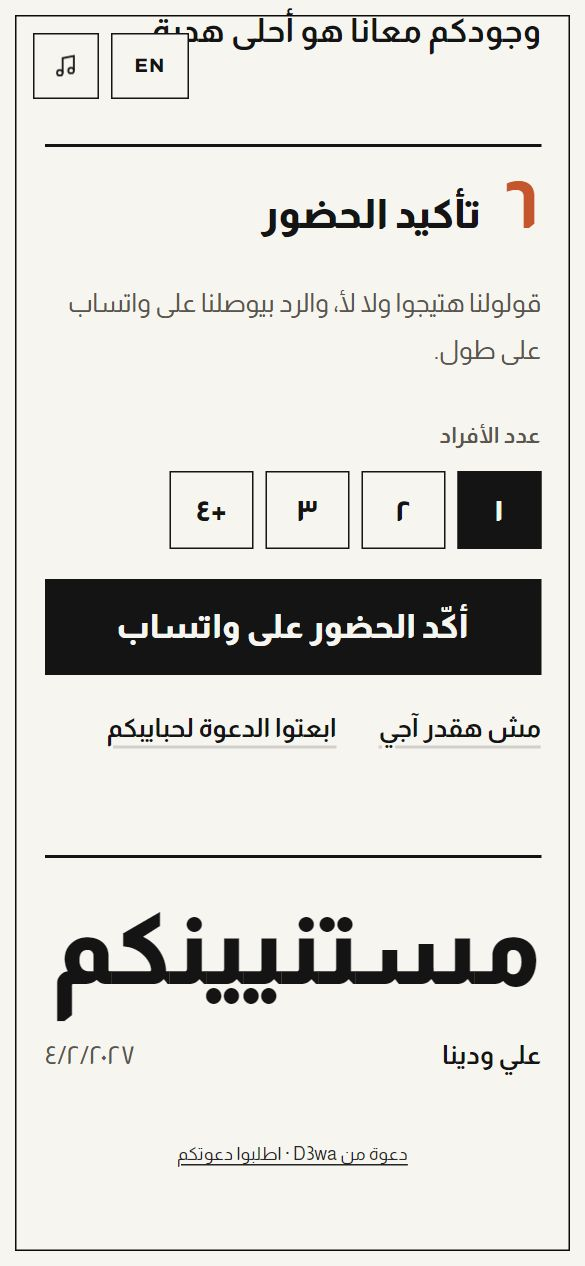
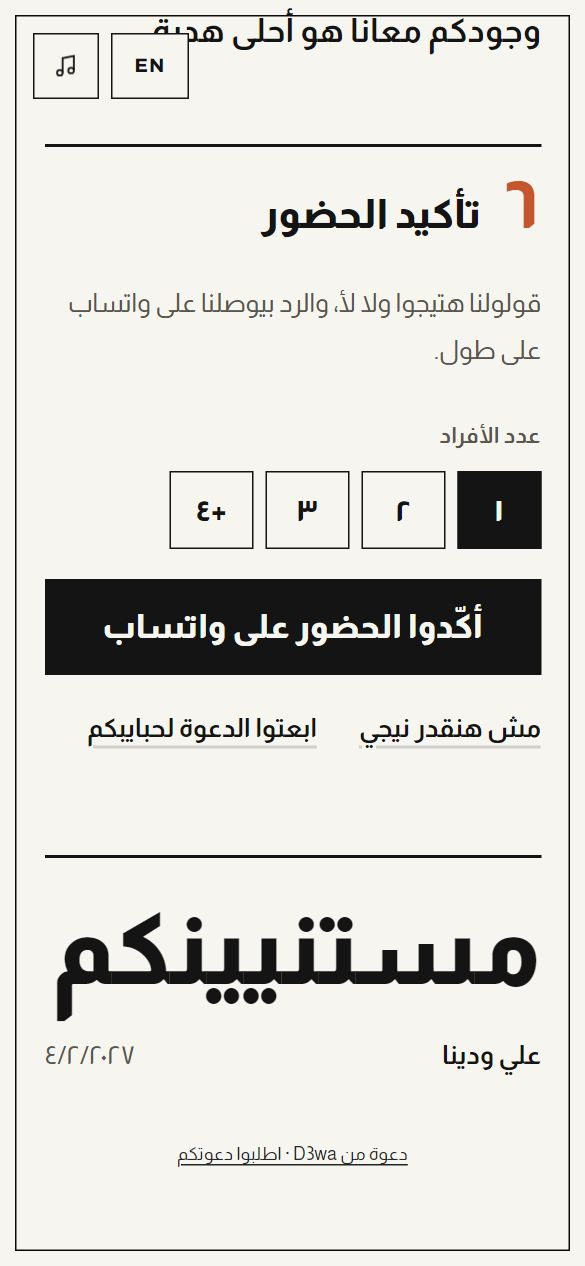
Council round 7 fixes: one RSVP voice, every gallery visible
From the seventh council review (Claude Opus, 9.4/10):
- RSVP wording mixed singular and plural next to a 1-4+ guest picker,
  and Sahara's decline button disagreed with its own WhatsApp message.
  Deco, Emerald, Grad, Modern and Sahara now speak as "we" on the
  accept/decline buttons and in the matching messages, in Arabic and
  English, and address guests in the plural.
- Henna, Lotus and Graduation product pages promise the Signature
  gallery, so their demos now carry face-free sample photos that fit
  them (catalog photos per design).
- Sahara's beach wedding and the graduation party demo in June instead
  of February; the floating button waits for the first scroll on pages
  without a hero; the demo bar's design name can wrap.

Changed region(s): [[0.1846, 0.4621, 0.8308, 0.5237], [0.1538, 0.5545, 0.5846, 0.5853], [0.6154, 0.5545, 0.8, 0.5853]]

diff --git a/demos/grad.html b/demos/grad.html
@@ -574,14 +574,14 @@ body.intro-lock{overflow:hidden}
 
       <a class="btn prime" id="acceptBtn" target="_blank" rel="noopener noreferrer" href="https://wa.me/201005509418">
         <svg viewBox="0 0 24 24" fill="currentColor" aria-hidden="true"><path d="M12.04 2C6.58 2 2.13 6.45 2.13 11.91c0 1.94.56 3.75 1.5 5.29L2 22l4.96-1.6a9.9 9.9 0 0 0 5.08 1.4h.01c5.46 0 9.91-4.45 9.91-9.91C21.96 6.45 17.5 2 12.04 2zm5.78 14.07c-.25.7-1.45 1.34-2 1.43-.5.08-1.13.11-1.83-.12-.42-.13-.96-.31-1.65-.6-2.9-1.25-4.79-4.17-4.94-4.37-.15-.2-1.18-1.57-1.18-3 0-1.42.74-2.12 1-2.41.25-.28.55-.35.74-.35h.53c.17 0 .4-.03.62.48.25.58.84 2.02.91 2.17.07.15.12.32.02.51-.09.2-.16.32-.31.49-.15.17-.32.38-.45.51-.15.15-.3.31-.13.6.18.3.8 1.32 1.71 2.13 1.18 1.05 2.17 1.38 2.5 1.53.25.12.55.1.74-.11.25-.28.55-.74.86-1.2.22-.32.49-.36.82-.24.34.12 2.15 1.01 2.51 1.2.37.18.61.27.7.43.1.16.1.9-.15 1.6z"/></svg>
-        <span class="t-ar">أكّد الحضور على واتساب</span>
+        <span class="t-ar">أكّدوا الحضور على واتساب</span>
         <span class="t-en">Confirm on WhatsApp</span>
       </a>
 
       <div class="quiet">
         <a class="qlink" id="declineBtn" target="_blank" rel="noopener noreferrer" href="https://wa.me/201005509418">
-          <span class="t-ar">مش هقدر أحضر</span>
-          <span class="t-en">I can't make it</span>
+          <span class="t-ar">مش هنقدر نحضر</span>
+          <span class="t-en">We can't make it</span>
         </a>
         <a class="qlink" id="shareBtn" target="_blank" rel="noopener noreferrer" href="https://wa.me/">
           <svg viewBox="0 0 24 24" fill="none" stroke="currentColor" stroke-width="1.9" aria-hidden="true"><path d="M4 12v7a2 2 0 0 0 2 2h12a2 2 0 0 0 2-2v-7"/><path d="M16 6l-4-4-4 4M12 2v13"/></svg>
@@ -620,7 +620,10 @@ body.intro-lock{overflow:hidden}
   try {
     var p = new URLSearchParams(window.__D3WA__ || location.search);
     if (!p.get("d")) {
-      var t = new Date(Date.now() + 90 * 864e5); t.setDate(t.getDate() + (4 - t.getDay() + 7) % 7); /* demos land on a Thursday */
+      var t = new Date(Date.now() + 90 * 864e5);
+    /* a graduation party belongs in summer: move the demo into June to August */
+    if (t.getMonth() < 5) t = new Date(t.getFullYear(), 5, 18); else if (t.getMonth() > 7) t = new Date(t.getFullYear() + 1, 5, 18);
+    t.setDate(t.getDate() + (4 - t.getDay() + 7) % 7); /* on a Thursday */
       p.set("d", t.getFullYear() + "-" + ("0"+(t.getMonth()+1)).slice(-2) + "-" + ("0"+t.getDate()).slice(-2));
       window.__D3WA__ = p.toString();
     }
@@ -897,8 +900,8 @@ body.intro-lock{overflow:hidden}
       ? "مبروك يا " + nAr + "! أكيد جايين حفلة التخرج يوم " + dateFullAr + " الساعة " + timeArS + " في " + venAr + ". عدد الحضور: " + guestAr
       : "Congratulations, " + nEn + "! Confirming we'll be at the graduation party on " + dateFullEn + " at " + timeEnS + ", " + venEn + ". Guests: " + guestEn;
     var decline = isAr
-      ? "ألف مبروك يا " + nAr + "! للأسف مش هقدر أحضر الحفلة، بس قلبي معاكم وبتمنالك كل النجاح."
-      : "Huge congratulations, " + nEn + "! Sadly I can't make it to the party, but I'm wishing you every success.";
+      ? "ألف مبروك يا " + nAr + "! للأسف مش هنقدر نحضر الحفلة، بس قلوبنا معاكم وبنتمنالك كل النجاح."
+      : "Huge congratulations, " + nEn + "! Sadly we can't make it to the party, but we're wishing you every success.";
     var share = isAr
       ? "تتشرف العائلة بدعوتكم لحفلة تخرج " + nAr + " يوم " + dateFullAr + " الساعة " + timeArS + " في " + venAr + ". الدعوة هنا: " + url
       : "You're invited to " + nEn + "'s graduation party on " + dateFullEn + " at " + timeEnS + ", " + venEn + ". The invitation: " + url;

diff --git a/templates/index.html b/templates/index.html
@@ -141,7 +141,7 @@
     <p class="mood"><span class="t-ar">حُمرة الحنة والزعفران</span><span class="t-en">Henna red and saffron</span></p>
     <p class="from"><span class="t-ar">من</span><span class="t-en">From</span> <b><span class="t-ar">٦٩٩ جنيه</span><span class="t-en">EGP 699</span></b></p>
   </div>
-  <a class="try link" href="../demos/henna.html?n_ar=%D9%85%D9%84%D9%83&amp;n_en=Malak" target="_blank" rel="noopener"><span class="t-ar">جرّب الديمو</span><span class="t-en">Try the demo</span></a>
+  <a class="try link" href="../demos/henna.html?n_ar=%D9%85%D9%84%D9%83&amp;n_en=Malak&amp;ph1=https%3A%2F%2Fimages.unsplash.com%2Fphoto-1525258946800-98cfd641d0de%3Fauto%3Dformat%26fit%3Dcrop%26w%3D900%26q%3D75&amp;ph2=https%3A%2F%2Fimages.unsplash.com%2Fphoto-1513151233558-d860c5398176%3Fauto%3Dformat%26fit%3Dcrop%26w%3D900%26q%3D75&amp;ph3=https%3A%2F%2Fimages.unsplash.com%2Fphoto-1519225421980-715cb0215aed%3Fauto%3Dformat%26fit%3Dcrop%26w%3D900%26q%3D75" target="_blank" rel="noopener"><span class="t-ar">جرّب الديمو</span><span class="t-en">Try the demo</span></a>
 </article>
 <article class="tile" data-occ="wedding">
   <a class="mount" href="../templates/deco.html" tabindex="-1" aria-hidden="true">
@@ -189,7 +189,7 @@
     <p class="mood"><span class="t-ar">باستيل وقمر ولوتس</span><span class="t-en">Pastels, a moon and a lotus</span></p>
     <p class="from"><span class="t-ar">من</span><span class="t-en">From</span> <b><span class="t-ar">٦٩٩ جنيه</span><span class="t-en">EGP 699</span></b></p>
   </div>
-  <a class="try link" href="../demos/lotus.html?n_ar=%D9%8A%D8%A7%D8%B3%D9%8A%D9%86&amp;n_en=Yassin" target="_blank" rel="noopener"><span class="t-ar">جرّب الديمو</span><span class="t-en">Try the demo</span></a>
+  <a class="try link" href="../demos/lotus.html?n_ar=%D9%8A%D8%A7%D8%B3%D9%8A%D9%86&amp;n_en=Yassin&amp;ph1=https%3A%2F%2Fimages.unsplash.com%2Fphoto-1522383225653-ed111181a951%3Fauto%3Dformat%26fit%3Dcrop%26w%3D900%26q%3D75&amp;ph2=https%3A%2F%2Fimages.unsplash.com%2Fphoto-1530103862676-de8c9debad1d%3Fauto%3Dformat%26fit%3Dcrop%26w%3D900%26q%3D75&amp;ph3=https%3A%2F%2Fimages.unsplash.com%2Fphoto-1519225421980-715cb0215aed%3Fauto%3Dformat%26fit%3Dcrop%26w%3D900%26q%3D75" target="_blank" rel="noopener"><span class="t-ar">جرّب الديمو</span><span class="t-en">Try the demo</span></a>
 </article>
 <article class="tile" data-occ="grad">
   <a class="mount" href="../templates/grad.html" tabindex="-1" aria-hidden="true">
@@ -201,7 +201,7 @@
     <p class="mood"><span class="t-ar">كحلي وبرتقالي وسنة التخرج</span><span class="t-en">Navy, orange and the class year</span></p>
     <p class="from"><span class="t-ar">من</span><span class="t-en">From</span> <b><span class="t-ar">٦٩٩ جنيه</span><span class="t-en">EGP 699</span></b></p>
   </div>
-  <a class="try link" href="../demos/grad.html?n_ar=%D8%B3%D8%A7%D8%B1%D8%A9&amp;n_en=Sara" target="_blank" rel="noopener"><span class="t-ar">جرّب الديمو</span><span class="t-en">Try the demo</span></a>
+  <a class="try link" href="../demos/grad.html?n_ar=%D8%B3%D8%A7%D8%B1%D8%A9&amp;n_en=Sara&amp;ph1=https%3A%2F%2Fimages.unsplash.com%2Fphoto-1627556704302-624286467c65%3Fauto%3Dformat%26fit%3Dcrop%26w%3D900%26q%3D75&amp;ph2=https%3A%2F%2Fimages.unsplash.com%2Fphoto-1513151233558-d860c5398176%3Fauto%3Dformat%26fit%3Dcrop%26w%3D900%26q%3D75&amp;ph3=https%3A%2F%2Fimages.unsplash.com%2Fphoto-1530103862676-de8c9debad1d%3Fauto%3Dformat%26fit%3Dcrop%26w%3D900%26q%3D75" target="_blank" rel="noopener"><span class="t-ar">جرّب الديمو</span><span class="t-en">Try the demo</span></a>
 </article>
   </div>
 </section>

diff --git a/templates/lotus.html b/templates/lotus.html
@@ -55,7 +55,7 @@
       <div class="phone"><div class="scr" id="scr">
         <img id="still" src="../assets/cards/lotus.jpg" data-en="../assets/cards/lotus-en.jpg" width="585" height="1266" fetchpriority="high" alt="سبوع اللوتس: باستيل وقمر ولوتس">
       </div></div>
-      <button class="btn btn-pom play" id="play" type="button" data-src="../demos/lotus.html?n_ar=%D9%8A%D8%A7%D8%B3%D9%8A%D9%86&n_en=Yassin"><svg viewBox="0 0 24 24" fill="none" stroke="currentColor" stroke-width="1.6" stroke-linecap="round" stroke-linejoin="round" aria-hidden="true"><path d="M2.5 12s3.5-6.5 9.5-6.5S21.5 12 21.5 12s-3.5 6.5-9.5 6.5S2.5 12 2.5 12z"/><circle cx="12" cy="12" r="2.8"/></svg><span class="t-ar">جرّبوا الدعوة هنا</span><span class="t-en">Try it here</span></button>
+      <button class="btn btn-pom play" id="play" type="button" data-src="../demos/lotus.html?n_ar=%D9%8A%D8%A7%D8%B3%D9%8A%D9%86&n_en=Yassin&ph1=https%3A%2F%2Fimages.unsplash.com%2Fphoto-1522383225653-ed111181a951%3Fauto%3Dformat%26fit%3Dcrop%26w%3D900%26q%3D75&ph2=https%3A%2F%2Fimages.unsplash.com%2Fphoto-1530103862676-de8c9debad1d%3Fauto%3Dformat%26fit%3Dcrop%26w%3D900%26q%3D75&ph3=https%3A%2F%2Fimages.unsplash.com%2Fphoto-1519225421980-715cb0215aed%3Fauto%3Dformat%26fit%3Dcrop%26w%3D900%26q%3D75"><svg viewBox="0 0 24 24" fill="none" stroke="currentColor" stroke-width="1.6" stroke-linecap="round" stroke-linejoin="round" aria-hidden="true"><path d="M2.5 12s3.5-6.5 9.5-6.5S21.5 12 21.5 12s-3.5 6.5-9.5 6.5S2.5 12 2.5 12z"/><circle cx="12" cy="12" r="2.8"/></svg><span class="t-ar">جرّبوا الدعوة هنا</span><span class="t-en">Try it here</span></button>
     </div>
     <div class="thumbs" id="thumbs">
       <button type="button" aria-pressed="true" data-src="../assets/cards/lotus.jpg" data-en="../assets/cards/lotus-en.jpg"><img src="../assets/cards/lotus.jpg" data-en="../assets/cards/lotus-en.jpg" width="66" height="117" alt=""><span class="sr-only"><span class="t-ar">الغلاف</span><span class="t-en">Cover</span></span></button>
@@ -94,7 +94,7 @@
     </fieldset>
     <div class="buy">
       <a class="btn btn-pom" id="buy" href="../order.html?t=lotus&amp;p=signature"><span class="t-ar">خصّصوا التصميم ده</span><span class="t-en">Personalise this design</span></a>
-      <a class="btn btn-line" href="../demos/lotus.html?n_ar=%D9%8A%D8%A7%D8%B3%D9%8A%D9%86&amp;n_en=Yassin" target="_blank" rel="noopener"><span class="t-ar">افتحوا الديمو كامل</span><span class="t-en">Open the full demo</span></a>
+      <a class="btn btn-line" href="../demos/lotus.html?n_ar=%D9%8A%D8%A7%D8%B3%D9%8A%D9%86&amp;n_en=Yassin&amp;ph1=https%3A%2F%2Fimages.unsplash.com%2Fphoto-1522383225653-ed111181a951%3Fauto%3Dformat%26fit%3Dcrop%26w%3D900%26q%3D75&amp;ph2=https%3A%2F%2Fimages.unsplash.com%2Fphoto-1530103862676-de8c9debad1d%3Fauto%3Dformat%26fit%3Dcrop%26w%3D900%26q%3D75&amp;ph3=https%3A%2F%2Fimages.unsplash.com%2Fphoto-1519225421980-715cb0215aed%3Fauto%3Dformat%26fit%3Dcrop%26w%3D900%26q%3D75" target="_blank" rel="noopener"><span class="t-ar">افتحوا الديمو كامل</span><span class="t-en">Open the full demo</span></a>
     </div>
     <p style="margin-top:14px;font-size:15px"><a class="link" href="https://wa.me/201005509418?text=%D8%A3%D9%87%D9%84%D8%A7%D9%8B%D8%8C%20%D8%B9%D9%86%D8%AF%D9%8A%20%D8%B3%D8%A4%D8%A7%D9%84%20%D8%B9%D9%86%20%D8%AA%D8%B5%D9%85%D9%8A%D9%85%20%D8%B3%D8%A8%D9%88%D8%B9%20%D8%A7%D9%84%D9%84%D9%88%D8%AA%D8%B3%20(D3-007)." target="_blank" rel="noopener"><span class="t-ar">عندكم سؤال؟ اسألونا على واتساب</span><span class="t-en">A question? Ask us on WhatsApp</span></a></p>
     <ul class="promise">

diff --git a/templates/henna.html b/templates/henna.html
@@ -55,7 +55,7 @@
       <div class="phone"><div class="scr" id="scr">
         <img id="still" src="../assets/cards/henna.jpg" data-en="../assets/cards/henna-en.jpg" width="585" height="1266" fetchpriority="high" alt="ليلة حنة: حُمرة الحنة والزعفران">
       </div></div>
-      <button class="btn btn-pom play" id="play" type="button" data-src="../demos/henna.html?n_ar=%D9%85%D9%84%D9%83&n_en=Malak"><svg viewBox="0 0 24 24" fill="none" stroke="currentColor" stroke-width="1.6" stroke-linecap="round" stroke-linejoin="round" aria-hidden="true"><path d="M2.5 12s3.5-6.5 9.5-6.5S21.5 12 21.5 12s-3.5 6.5-9.5 6.5S2.5 12 2.5 12z"/><circle cx="12" cy="12" r="2.8"/></svg><span class="t-ar">جرّبوا الدعوة هنا</span><span class="t-en">Try it here</span></button>
+      <button class="btn btn-pom play" id="play" type="button" data-src="../demos/henna.html?n_ar=%D9%85%D9%84%D9%83&n_en=Malak&ph1=https%3A%2F%2Fimages.unsplash.com%2Fphoto-1525258946800-98cfd641d0de%3Fauto%3Dformat%26fit%3Dcrop%26w%3D900%26q%3D75&ph2=https%3A%2F%2Fimages.unsplash.com%2Fphoto-1513151233558-d860c5398176%3Fauto%3Dformat%26fit%3Dcrop%26w%3D900%26q%3D75&ph3=https%3A%2F%2Fimages.unsplash.com%2Fphoto-1519225421980-715cb0215aed%3Fauto%3Dformat%26fit%3Dcrop%26w%3D900%26q%3D75"><svg viewBox="0 0 24 24" fill="none" stroke="currentColor" stroke-width="1.6" stroke-linecap="round" stroke-linejoin="round" aria-hidden="true"><path d="M2.5 12s3.5-6.5 9.5-6.5S21.5 12 21.5 12s-3.5 6.5-9.5 6.5S2.5 12 2.5 12z"/><circle cx="12" cy="12" r="2.8"/></svg><span class="t-ar">جرّبوا الدعوة هنا</span><span class="t-en">Try it here</span></button>
     </div>
     <div class="thumbs" id="thumbs">
       <button type="button" aria-pressed="true" data-src="../assets/cards/henna.jpg" data-en="../assets/cards/henna-en.jpg"><img src="../assets/cards/henna.jpg" data-en="../assets/cards/henna-en.jpg" width="66" height="117" alt=""><span class="sr-only"><span class="t-ar">الغلاف</span><span class="t-en">Cover</span></span></button>
@@ -94,7 +94,7 @@
     </fieldset>
     <div class="buy">
       <a class="btn btn-pom" id="buy" href="../order.html?t=henna&amp;p=signature"><span class="t-ar">خصّصوا التصميم ده</span><span class="t-en">Personalise this design</span></a>
-      <a class="btn btn-line" href="../demos/henna.html?n_ar=%D9%85%D9%84%D9%83&amp;n_en=Malak" target="_blank" rel="noopener"><span class="t-ar">افتحوا الديمو كامل</span><span class="t-en">Open the full demo</span></a>
+      <a class="btn btn-line" href="../demos/henna.html?n_ar=%D9%85%D9%84%D9%83&amp;n_en=Malak&amp;ph1=https%3A%2F%2Fimages.unsplash.com%2Fphoto-1525258946800-98cfd641d0de%3Fauto%3Dformat%26fit%3Dcrop%26w%3D900%26q%3D75&amp;ph2=https%3A%2F%2Fimages.unsplash.com%2Fphoto-1513151233558-d860c5398176%3Fauto%3Dformat%26fit%3Dcrop%26w%3D900%26q%3D75&amp;ph3=https%3A%2F%2Fimages.unsplash.com%2Fphoto-1519225421980-715cb0215aed%3Fauto%3Dformat%26fit%3Dcrop%26w%3D900%26q%3D75" target="_blank" rel="noopener"><span class="t-ar">افتحوا الديمو كامل</span><span class="t-en">Open the full demo</span></a>
     </div>
     <p style="margin-top:14px;font-size:15px"><a class="link" href="https://wa.me/201005509418?text=%D8%A3%D9%87%D9%84%D8%A7%D9%8B%D8%8C%20%D8%B9%D9%86%D8%AF%D9%8A%20%D8%B3%D8%A4%D8%A7%D9%84%20%D8%B9%D9%86%20%D8%AA%D8%B5%D9%85%D9%8A%D9%85%20%D9%84%D9%8A%D9%84%D8%A9%20%D8%AD%D9%86%D8%A9%20(D3-008)." target="_blank" rel="noopener"><span class="t-ar">عندكم سؤال؟ اسألونا على واتساب</span><span class="t-en">A question? Ask us on WhatsApp</span></a></p>
     <ul class="promise">

diff --git a/templates/grad.html b/templates/grad.html
@@ -55,7 +55,7 @@
       <div class="phone"><div class="scr" id="scr">
         <img id="still" src="../assets/cards/grad.jpg" data-en="../assets/cards/grad-en.jpg" width="585" height="1266" fetchpriority="high" alt="تخرج: كحلي وبرتقالي وسنة التخرج">
       </div></div>
-      <button class="btn btn-pom play" id="play" type="button" data-src="../demos/grad.html?n_ar=%D8%B3%D8%A7%D8%B1%D8%A9&n_en=Sara"><svg viewBox="0 0 24 24" fill="none" stroke="currentColor" stroke-width="1.6" stroke-linecap="round" stroke-linejoin="round" aria-hidden="true"><path d="M2.5 12s3.5-6.5 9.5-6.5S21.5 12 21.5 12s-3.5 6.5-9.5 6.5S2.5 12 2.5 12z"/><circle cx="12" cy="12" r="2.8"/></svg><span class="t-ar">جرّبوا الدعوة هنا</span><span class="t-en">Try it here</span></button>
+      <button class="btn btn-pom play" id="play" type="button" data-src="../demos/grad.html?n_ar=%D8%B3%D8%A7%D8%B1%D8%A9&n_en=Sara&ph1=https%3A%2F%2Fimages.unsplash.com%2Fphoto-1627556704302-624286467c65%3Fauto%3Dformat%26fit%3Dcrop%26w%3D900%26q%3D75&ph2=https%3A%2F%2Fimages.unsplash.com%2Fphoto-1513151233558-d860c5398176%3Fauto%3Dformat%26fit%3Dcrop%26w%3D900%26q%3D75&ph3=https%3A%2F%2Fimages.unsplash.com%2Fphoto-1530103862676-de8c9debad1d%3Fauto%3Dformat%26fit%3Dcrop%26w%3D900%26q%3D75"><svg viewBox="0 0 24 24" fill="none" stroke="currentColor" stroke-width="1.6" stroke-linecap="round" stroke-linejoin="round" aria-hidden="true"><path d="M2.5 12s3.5-6.5 9.5-6.5S21.5 12 21.5 12s-3.5 6.5-9.5 6.5S2.5 12 2.5 12z"/><circle cx="12" cy="12" r="2.8"/></svg><span class="t-ar">جرّبوا الدعوة هنا</span><span class="t-en">Try it here</span></button>
     </div>
     <div class="thumbs" id="thumbs">
       <button type="button" aria-pressed="true" data-src="../assets/cards/grad.jpg" data-en="../assets/cards/grad-en.jpg"><img src="../assets/cards/grad.jpg" data-en="../assets/cards/grad-en.jpg" width="66" height="117" alt=""><span class="sr-only"><span class="t-ar">الغلاف</span><span class="t-en">Cover</span></span></button>
@@ -94,7 +94,7 @@
     </fieldset>
     <div class="buy">
       <a class="btn btn-pom" id="buy" href="../order.html?t=grad&amp;p=signature"><span class="t-ar">خصّصوا التصميم ده</span><span class="t-en">Personalise this design</span></a>
-      <a class="btn btn-line" href="../demos/grad.html?n_ar=%D8%B3%D8%A7%D8%B1%D8%A9&amp;n_en=Sara" target="_blank" rel="noopener"><span class="t-ar">افتحوا الديمو كامل</span><span class="t-en">Open the full demo</span></a>
+      <a class="btn btn-line" href="../demos/grad.html?n_ar=%D8%B3%D8%A7%D8%B1%D8%A9&amp;n_en=Sara&amp;ph1=https%3A%2F%2Fimages.unsplash.com%2Fphoto-1627556704302-624286467c65%3Fauto%3Dformat%26fit%3Dcrop%26w%3D900%26q%3D75&amp;ph2=https%3A%2F%2Fimages.unsplash.com%2Fphoto-1513151233558-d860c5398176%3Fauto%3Dformat%26fit%3Dcrop%26w%3D900%26q%3D75&amp;ph3=https%3A%2F%2Fimages.unsplash.com%2Fphoto-1530103862676-de8c9debad1d%3Fauto%3Dformat%26fit%3Dcrop%26w%3D900%26q%3D75" target="_blank" rel="noopener"><span class="t-ar">افتحوا الديمو كامل</span><span class="t-en">Open the full demo</span></a>
     </div>
     <p style="margin-top:14px;font-size:15px"><a class="link" href="https://wa.me/201005509418?text=%D8%A3%D9%87%D9%84%D8%A7%D9%8B%D8%8C%20%D8%B9%D9%86%D8%AF%D9%8A%20%D8%B3%D8%A4%D8%A7%D9%84%20%D8%B9%D9%86%20%D8%AA%D8%B5%D9%85%D9%8A%D9%85%20%D8%AA%D8%AE%D8%B1%D8%AC%20(D3-012)." target="_blank" rel="noopener"><span class="t-ar">عندكم سؤال؟ اسألونا على واتساب</span><span class="t-en">A question? Ask us on WhatsApp</span></a></p>
     <ul class="promise">

diff --git a/demos/deco.html b/demos/deco.html
@@ -889,12 +889,12 @@ html:not(.en) .chip{font-family:var(--kufi);font-weight:500;font-size:15px}
       <div class="rsvp-row">
         <a class="btn solid" id="rsvpYes" target="_blank" rel="noopener noreferrer" href="#">
           <svg viewBox="0 0 24 24" fill="none" stroke="currentColor" stroke-width="1.8" aria-hidden="true"><path d="M20 6 9 17l-5-5"/></svg>
-          <span class="t-ar">هحضر بإذن الله</span>
+          <span class="t-ar">هنحضر بإذن الله</span>
           <span class="t-en">Accept</span>
         </a>
         <a class="btn" id="rsvpNo" target="_blank" rel="noopener noreferrer" href="#">
           <svg viewBox="0 0 24 24" fill="none" stroke="currentColor" stroke-width="1.8" aria-hidden="true"><path d="M18 6 6 18M6 6l12 12"/></svg>
-          <span class="t-ar">مش هقدر أحضر</span>
+          <span class="t-ar">مش هنقدر نحضر</span>
           <span class="t-en">Decline</span>
         </a>
       </div>
@@ -1211,15 +1211,15 @@ html:not(.en) .chip{font-family:var(--kufi);font-weight:500;font-size:15px}
     var url = "https://khalidsharafel-din.github.io/d3wa/demos/deco.html";
     if (location.protocol !== "file:") url = location.href.split("#")[0];
     var accept = isEn
-      ? "Hello! I'm delighted to confirm my attendance at the wedding of " + namesEn + " on " + dateFullEn + " at " + timeEn + ", " + venueMsgEn + ". Number of guests: " + GUEST_EN[guestCount] + "."
-      : "مرحباً! يسعدني أأكد حضوري حفل زفاف " + namesAr + " يوم " + dateFullAr + " الساعة " + timeAr + " في " + venueMsgAr + ". عدد الحضور: " + GUEST_AR[guestCount] + ".";
+      ? "Hello! We're delighted to confirm our attendance at the wedding of " + namesEn + " on " + dateFullEn + " at " + timeEn + ", " + venueMsgEn + ". Number of guests: " + GUEST_EN[guestCount] + "."
+      : "مرحباً! يسعدنا نأكد حضورنا حفل زفاف " + namesAr + " يوم " + dateFullAr + " الساعة " + timeAr + " في " + venueMsgAr + ". عدد الحضور: " + GUEST_AR[guestCount] + ".";
     var share = isEn
       ? "You're invited to the wedding of " + namesEn + " on " + dateFullEn + " at " + timeEn + ", " + venueMsgEn + ". Open the invitation: " + url
       : "دعوة لحضور حفل زفاف " + namesAr + " يوم " + dateFullAr + " الساعة " + timeAr + " في " + venueMsgAr + ". افتحوا الدعوة من هنا: " + url;
     if (shareBtn) shareBtn.href = "https://wa.me/?text=" + encodeURIComponent(share);
     var decline = isEn
-      ? "Hello! Sadly I won't be able to make it to the wedding of " + namesEn + " on " + dateFullEn + ". Wishing you both a lifetime of happiness."
-      : "مرحباً! للأسف مش هقدر أحضر حفل زفاف " + namesAr + " يوم " + dateFullAr + "، ألف مبروك ومتمنيلكم حياة سعيدة.";
+      ? "Hello! Sadly we won't be able to make it to the wedding of " + namesEn + " on " + dateFullEn + ". Wishing you both a lifetime of happiness."
+      : "مرحباً! للأسف مش هنقدر نحضر حفل زفاف " + namesAr + " يوم " + dateFullAr + "، ألف مبروك وبنتمنالكم حياة سعيدة.";
     if (yesBtn) yesBtn.href = "https://wa.me/" + waNum + "?text=" + encodeURIComponent(accept);
     if (noBtn)  noBtn.href  = "https://wa.me/" + waNum + "?text=" + encodeURIComponent(decline);
   }

diff --git a/demos/modern.html b/demos/modern.html
@@ -558,9 +558,9 @@ html.en .mono .t-ar,html:not(.en) .mono .t-en{display:none}
             <button type="button" class="chip" data-n="4+" aria-pressed="false"><span class="t-ar">+٤</span><span class="t-en">4+</span></button>
           </div>
         </div>
-        <a class="rsvp-yes" id="rsvpYes" target="_blank" rel="noopener noreferrer" href="https://wa.me/201005509418"><span class="t-ar">أكّد الحضور على واتساب</span><span class="t-en">Confirm on WhatsApp</span></a>
+        <a class="rsvp-yes" id="rsvpYes" target="_blank" rel="noopener noreferrer" href="https://wa.me/201005509418"><span class="t-ar">أكّدوا الحضور على واتساب</span><span class="t-en">Confirm on WhatsApp</span></a>
         <div class="rsvp-more">
-          <a class="tlink" id="rsvpNo" target="_blank" rel="noopener noreferrer" href="https://wa.me/201005509418"><span class="t-ar">مش هقدر آجي</span><span class="t-en">I can&rsquo;t make it</span></a>
+          <a class="tlink" id="rsvpNo" target="_blank" rel="noopener noreferrer" href="https://wa.me/201005509418"><span class="t-ar">مش هنقدر نيجي</span><span class="t-en">I can&rsquo;t make it</span></a>
           <a class="tlink" id="shareBtn" target="_blank" rel="noopener noreferrer" href="https://wa.me/"><span class="t-ar">ابعتوا الدعوة لحبايبكم</span><span class="t-en">Share the invitation</span></a>
         </div>
       </div>
@@ -897,11 +897,11 @@ html.en .mono .t-ar,html:not(.en) .mono .t-en{display:none}
   function updateLinks () {
     var url = location.href.split("#")[0];
     var yes = isEn
-      ? "Hi! Confirming I'll attend " + namesEn + "'s engagement on " + dateFullEn + " at " + timeEn + ", " + venueMsgEn + ". Guests: " + guestN
+      ? "Hi! Confirming we'll attend " + namesEn + "'s engagement on " + dateFullEn + " at " + timeEn + ", " + venueMsgEn + ". Guests: " + guestN
       : "أهلاً! تأكيد حضور خطوبة " + namesAr + "، " + dateFullAr + " الساعة " + timeAr + " في " + venueMsgAr + ". عدد الأفراد: " + arDigits(guestN);
     var no = isEn
-      ? "Hi! Sadly I can't make it to " + namesEn + "'s engagement. Congratulations and warmest wishes to you both."
-      : "أهلاً! للأسف مش هقدر أحضر خطوبة " + namesAr + ". ألف مبروك، وربنا يتمم على خير.";
+      ? "Hi! Sadly we can't make it to " + namesEn + "'s engagement. Congratulations and warmest wishes to you both."
+      : "أهلاً! للأسف مش هنقدر نحضر خطوبة " + namesAr + ". ألف مبروك، وربنا يتمم على خير.";
     var share = isEn
       ? "You're invited to " + namesEn + "'s engagement, " + dateFullEn + " at " + timeEn + ", " + venueMsgEn + ". Invitation: " + url
       : "إنتم معزومين على خطوبة " + namesAr + "، " + dateFullAr + " الساعة " + timeAr + " في " + venueMsgAr + ". الدعوة هنا: " + url;

diff --git a/index.html b/index.html
@@ -144,7 +144,7 @@
     <p class="mood"><span class="t-ar">حُمرة الحنة والزعفران</span><span class="t-en">Henna red and saffron</span></p>
     <p class="from"><span class="t-ar">من</span><span class="t-en">From</span> <b><span class="t-ar">٦٩٩ جنيه</span><span class="t-en">EGP 699</span></b></p>
   </div>
-  <a class="try link" href="demos/henna.html?n_ar=%D9%85%D9%84%D9%83&amp;n_en=Malak" target="_blank" rel="noopener"><span class="t-ar">جرّب الديمو</span><span class="t-en">Try the demo</span></a>
+  <a class="try link" href="demos/henna.html?n_ar=%D9%85%D9%84%D9%83&amp;n_en=Malak&amp;ph1=https%3A%2F%2Fimages.unsplash.com%2Fphoto-1525258946800-98cfd641d0de%3Fauto%3Dformat%26fit%3Dcrop%26w%3D900%26q%3D75&amp;ph2=https%3A%2F%2Fimages.unsplash.com%2Fphoto-1513151233558-d860c5398176%3Fauto%3Dformat%26fit%3Dcrop%26w%3D900%26q%3D75&amp;ph3=https%3A%2F%2Fimages.unsplash.com%2Fphoto-1519225421980-715cb0215aed%3Fauto%3Dformat%26fit%3Dcrop%26w%3D900%26q%3D75" target="_blank" rel="noopener"><span class="t-ar">جرّب الديمو</span><span class="t-en">Try the demo</span></a>
 </article>
 <article class="tile" data-occ="wedding">
   <a class="mount" href="templates/deco.html" tabindex="-1" aria-hidden="true">
@@ -168,7 +168,7 @@
     <p class="mood"><span class="t-ar">باستيل وقمر ولوتس</span><span class="t-en">Pastels, a moon and a lotus</span></p>
     <p class="from"><span class="t-ar">من</span><span class="t-en">From</span> <b><span class="t-ar">٦٩٩ جنيه</span><span class="t-en">EGP 699</span></b></p>
   </div>
-  <a class="try link" href="demos/lotus.html?n_ar=%D9%8A%D8%A7%D8%B3%D9%8A%D9%86&amp;n_en=Yassin" target="_blank" rel="noopener"><span class="t-ar">جرّب الديمو</span><span class="t-en">Try the demo</span></a>
+  <a class="try link" href="demos/lotus.html?n_ar=%D9%8A%D8%A7%D8%B3%D9%8A%D9%86&amp;n_en=Yassin&amp;ph1=https%3A%2F%2Fimages.unsplash.com%2Fphoto-1522383225653-ed111181a951%3Fauto%3Dformat%26fit%3Dcrop%26w%3D900%26q%3D75&amp;ph2=https%3A%2F%2Fimages.unsplash.com%2Fphoto-1530103862676-de8c9debad1d%3Fauto%3Dformat%26fit%3Dcrop%26w%3D900%26q%3D75&amp;ph3=https%3A%2F%2Fimages.unsplash.com%2Fphoto-1519225421980-715cb0215aed%3Fauto%3Dformat%26fit%3Dcrop%26w%3D900%26q%3D75" target="_blank" rel="noopener"><span class="t-ar">جرّب الديمو</span><span class="t-en">Try the demo</span></a>
 </article>
 <article class="tile" data-occ="wedding">
   <a class="mount" href="templates/sahara.html" tabindex="-1" aria-hidden="true">

diff --git a/demos/sahara.html b/demos/sahara.html
@@ -976,7 +976,10 @@ html.en .intro-hint{font-family:var(--en-serif);font-weight:600;font-size:18px;l
   try {
     var p = new URLSearchParams(window.__D3WA__ || location.search);
     if (!p.get("d")) {
-      var t = new Date(Date.now() + 90 * 864e5); t.setDate(t.getDate() + (4 - t.getDay() + 7) % 7); /* demos land on a Thursday */
+      var t = new Date(Date.now() + 90 * 864e5);
+    /* a Sahel wedding belongs in summer: move the demo into June to September */
+    if (t.getMonth() < 5) t = new Date(t.getFullYear(), 5, 18); else if (t.getMonth() > 8) t = new Date(t.getFullYear() + 1, 5, 18);
+    t.setDate(t.getDate() + (4 - t.getDay() + 7) % 7); /* on a Thursday */
       p.set("d", t.getFullYear() + "-" + ("0"+(t.getMonth()+1)).slice(-2) + "-" + ("0"+t.getDate()).slice(-2));
       window.__D3WA__ = p.toString();
     }
@@ -1284,11 +1287,11 @@ html.en .intro-hint{font-family:var(--en-serif);font-weight:600;font-size:18px;l
   }
   function updateLinks () {
     var accept = isAr
-      ? "أهلاً! يسعدني تأكيد حضوري فرح " + namesAr + "، يوم " + dateFullAr + " الساعة " + timeAr + " في " + venueMsgAr + ". عدد الحضور: " + toArDigits(guestN)
-      : "Hello! Happy to confirm I'll be at the wedding of " + namesEn + ", " + dateFullEn + " at " + timeEn + ", " + venueMsgEn + ". Guests: " + guestN;
+      ? "أهلاً! يسعدنا تأكيد حضورنا فرح " + namesAr + "، يوم " + dateFullAr + " الساعة " + timeAr + " في " + venueMsgAr + ". عدد الحضور: " + toArDigits(guestN)
+      : "Hello! Happy to confirm we'll be at the wedding of " + namesEn + ", " + dateFullEn + " at " + timeEn + ", " + venueMsgEn + ". Guests: " + guestN;
     var decline = isAr
-      ? "أهلاً، للأسف مش هقدر أحضر فرح " + namesAr + ". ألف مبروك، وربنا يسعدكم"
-      : "Hello, sadly I can't make it to the wedding of " + namesEn + ". Congratulations, and wishing you both every happiness.";
+      ? "أهلاً، للأسف مش هنقدر نحضر فرح " + namesAr + ". ألف مبروك، وربنا يسعدكم"
+      : "Hello, sadly we can't make it to the wedding of " + namesEn + ". Congratulations, and wishing you both every happiness.";
     var url = pageUrl();
     var share = shareText() + (url ? (isAr ? " الدعوة هنا: " : " The invitation: ") + url : "");
     if (acceptBtn) acceptBtn.href = "https://wa.me/" + waNum + "?text=" + encodeURIComponent(accept);

diff --git a/assets/catalog.js b/assets/catalog.js
@@ -75,7 +75,7 @@ window.D3WA = {
   payment: { mode: "after-preview", depositShare: 0.5, payOnceUpTo: "classic" },
 
   /* Sample gallery photos for the store's demo links, so buyers see the Signature
-     gallery. Wedding-type designs only; no faces. */
+     gallery. Used by wedding-type designs; others set their own `photos`. No faces. */
   demoPhotos: [
     "https://images.unsplash.com/photo-1465495976277-4387d4b0b4c6?auto=format&fit=crop&w=900&q=75",
     "https://images.unsplash.com/photo-1525258946800-98cfd641d0de?auto=format&fit=crop&w=900&q=75",
@@ -158,6 +158,11 @@ window.D3WA = {
     },
     {
       k: "henna", code: "D3-008", minPkg: "classic", occ: ["henna"],
+      photos: [
+        "https://images.unsplash.com/photo-1525258946800-98cfd641d0de?auto=format&fit=crop&w=900&q=75",
+        "https://images.unsplash.com/photo-1513151233558-d860c5398176?auto=format&fit=crop&w=900&q=75",
+        "https://images.unsplash.com/photo-1519225421980-715cb0215aed?auto=format&fit=crop&w=900&q=75"
+      ],
       ar: "ليلة حنة", en: "Henna Night",
       mood: { ar: "حُمرة الحنة والزعفران", en: "Henna red and saffron" },
       blurb: {
@@ -202,6 +207,11 @@ window.D3WA = {
     },
     {
       k: "lotus", code: "D3-007", minPkg: "classic", occ: ["baby"],
+      photos: [
+        "https://images.unsplash.com/photo-1522383225653-ed111181a951?auto=format&fit=crop&w=900&q=75",
+        "https://images.unsplash.com/photo-1530103862676-de8c9debad1d?auto=format&fit=crop&w=900&q=75",
+        "https://images.unsplash.com/photo-1519225421980-715cb0215aed?auto=format&fit=crop&w=900&q=75"
+      ],
       ar: "سبوع اللوتس", en: "Lotus Sebou3",
       mood: { ar: "باستيل وقمر ولوتس", en: "Pastels, a moon and a lotus" },
       blurb: {
@@ -213,6 +223,11 @@ window.D3WA = {
     },
     {
       k: "grad", code: "D3-012", minPkg: "classic", occ: ["grad"],
+      photos: [
+        "https://images.unsplash.com/photo-1627556704302-624286467c65?auto=format&fit=crop&w=900&q=75",
+        "https://images.unsplash.com/photo-1513151233558-d860c5398176?auto=format&fit=crop&w=900&q=75",
+        "https://images.unsplash.com/photo-1530103862676-de8c9debad1d?auto=format&fit=crop&w=900&q=75"
+      ],
       ar: "تخرج", en: "Graduation",
       mood: { ar: "كحلي وبرتقالي وسنة التخرج", en: "Navy, orange and the class year" },
       blurb: {

diff --git a/demos/emerald.html b/demos/emerald.html
@@ -859,7 +859,7 @@ html.no-scroll,html.no-scroll body{overflow:hidden}
       </a>
       <a class="btn" id="declineBtn" target="_blank" rel="noopener noreferrer" href="https://wa.me/201005509418">
         <svg viewBox="0 0 24 24" fill="none" stroke="currentColor" stroke-width="1.7" aria-hidden="true"><path d="M18 6 6 18M6 6l12 12"/></svg>
-        <span class="t-ar">أعتذر عن الحضور</span>
+        <span class="t-ar">بنعتذر عن الحضور</span>
         <span class="t-en">Send regrets</span>
       </a>
     </div>
@@ -1209,11 +1209,11 @@ html.no-scroll,html.no-scroll body{overflow:hidden}
   }
   function updateLinks () {
     var accept = isEn
-      ? "Hello! I'm happy to confirm I'll attend the katb kitab of " + namesEn + " on " + dateFullEn + " at " + timeEn + ", " + venueMsgEn + ". Guests: " + GUEST_EN[guestCount]
-      : "السلام عليكم، يسعدني تأكيد حضوري عقد قران " + namesAr + " يوم " + dateFullAr + "، الساعة " + timeAr + "، " + venueMsgAr + ". عدد الحضور: " + GUEST_AR[guestCount];
+      ? "Hello! We're happy to confirm we'll attend the katb kitab of " + namesEn + " on " + dateFullEn + " at " + timeEn + ", " + venueMsgEn + ". Guests: " + GUEST_EN[guestCount]
+      : "السلام عليكم، يسعدنا تأكيد حضورنا عقد قران " + namesAr + " يوم " + dateFullAr + "، الساعة " + timeAr + "، " + venueMsgAr + ". عدد الحضور: " + GUEST_AR[guestCount];
     var decline = isEn
-      ? "Hello, I'm sorry I can't make it to the katb kitab of " + namesEn + ". Wishing them a lifetime of affection and mercy."
-      : "السلام عليكم، للأسف مش هقدر أحضر عقد قران " + namesAr + ". ربنا يتمم لهم على خير ويجعل بينهم مودة ورحمة.";
+      ? "Hello, we're sorry we can't make it to the katb kitab of " + namesEn + ". Wishing them a lifetime of affection and mercy."
+      : "السلام عليكم، للأسف مش هنقدر نحضر عقد قران " + namesAr + ". ربنا يتمم لهم على خير ويجعل بينهم مودة ورحمة.";
     var url = pageUrl();
     var share = shareText() + (url ? (isEn ? " Details: " : " التفاصيل: ") + url : "");
     if (acceptBtn) acceptBtn.href = "https://wa.me/" + waNum + "?text=" + encodeURIComponent(accept);

diff --git a/assets/demo-bar.js b/assets/demo-bar.js
@@ -37,7 +37,7 @@
       "translate:0 110%;transition:translate .5s cubic-bezier(.16,1,.3,1)}" +
       "#d3wa-demo-bar.on{translate:0 0}" +
       "#d3wa-demo-bar .dd-t{flex:1;min-width:0}" +
-      "#d3wa-demo-bar .dd-t b{display:block;font-weight:600;font-size:14.5px;white-space:nowrap;overflow:hidden;text-overflow:ellipsis}" +
+      "#d3wa-demo-bar .dd-t b{display:block;font-weight:600;font-size:14.5px;line-height:1.3}" +
       "#d3wa-demo-bar .dd-t small{color:#d9b8be;font-size:12.5px}" +
       "#d3wa-demo-bar a{flex:none;display:inline-flex;align-items:center;min-height:42px;padding:0 16px;border-radius:6px;" +
       "background:#f7f0ec;color:#5a1426;font-weight:600;text-decoration:none;font-size:14px}" +
